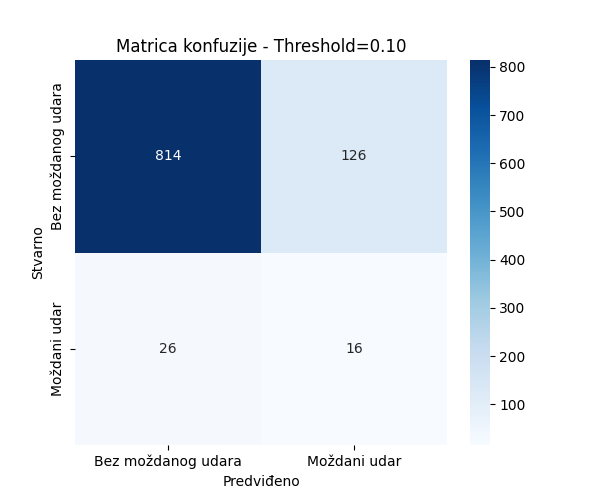
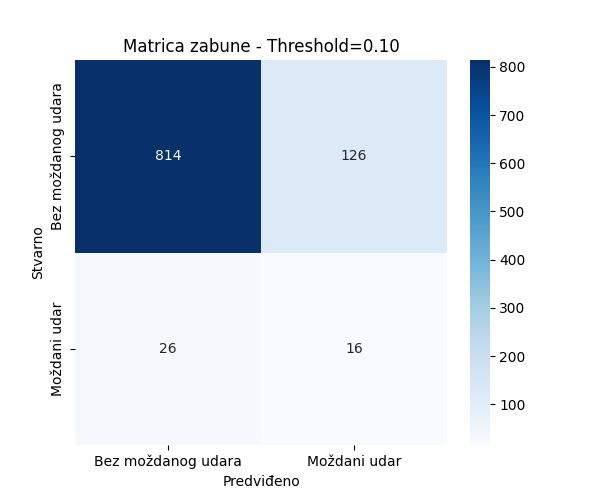
Changes to training.py

Changed region(s): [[0.18, 0.06, 0.69, 0.12]]

diff --git a/model/Training.py b/model/Training.py
@@ -36,11 +36,11 @@ print(df['stroke'].value_counts())
 print(f"\nOdnos klasa: {df['stroke'].value_counts()[0]} (nema udara) vs {df['stroke'].value_counts()[1]} (udar)")
 print(f"Postotak sa moždanim udarom: {(df['stroke'].sum() / len(df) * 100):.2f}%")
 
-# Prepare features and target
+# Priprema podataka za modeliranje
 X = df.drop(columns=['stroke'])
 y = df['stroke']
 
-# Encode categorical variables
+# Enkodiranje kategorijskih značajki pomoću LabelEncoder-a (ako ih ima)
 label_encoders = {}
 for col in X.select_dtypes(include=['object', 'category']).columns:
     le = LabelEncoder()
@@ -52,10 +52,10 @@ X_train, X_test, y_train, y_test = train_test_split(
     X, y, test_size=0.2, random_state=42, stratify=y
 )
 
-print(f"\nTrenin set: {len(X_train)} primjera")
+print(f"\nTrening set: {len(X_train)} primjera")
 print(f"Test set: {len(X_test)} primjera")
-print(f"Procenat sa udarom u treningu: {(y_train.sum() / len(y_train) * 100):.2f}%")
-print(f"Procenat sa udarom u testu: {(y_test.sum() / len(y_test) * 100):.2f}%")
+print(f"Postotak sa moždanim udarom u treningu: {(y_train.sum() / len(y_train) * 100):.2f}%")
+print(f"Postotak sa moždanim udarom u testu: {(y_test.sum() / len(y_test) * 100):.2f}%")
 
 # Modeli za usporedbu
 models = {
@@ -147,7 +147,7 @@ sns.heatmap(cm, annot=True, fmt='d', cmap='Blues',
             yticklabels=['Bez moždanog udara', 'Moždani udar'])
 plt.xlabel("Predviđeno")
 plt.ylabel("Stvarno")
-plt.title(f"Matrica zabune - Threshold={best_threshold:.2f}")
+plt.title(f"Matrica zabune - Threshold=0.5")
 plt.savefig("output/logistic_regression_confusion_matrix.png")
 plt.close()
 
